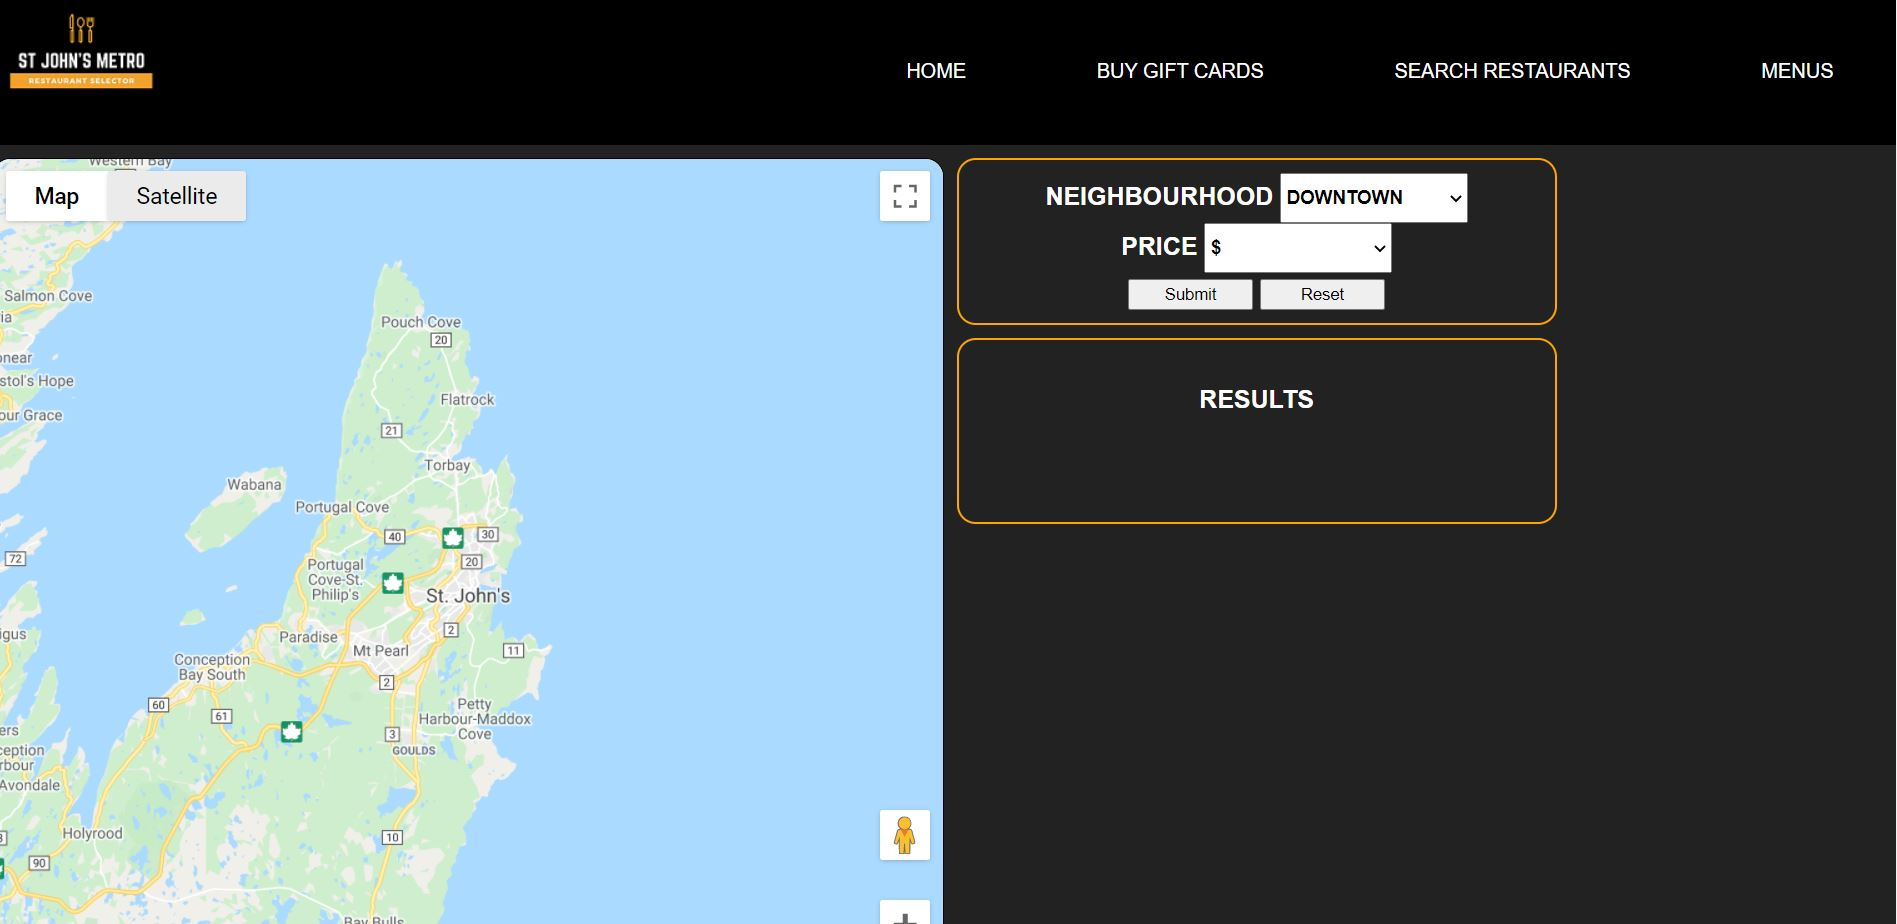
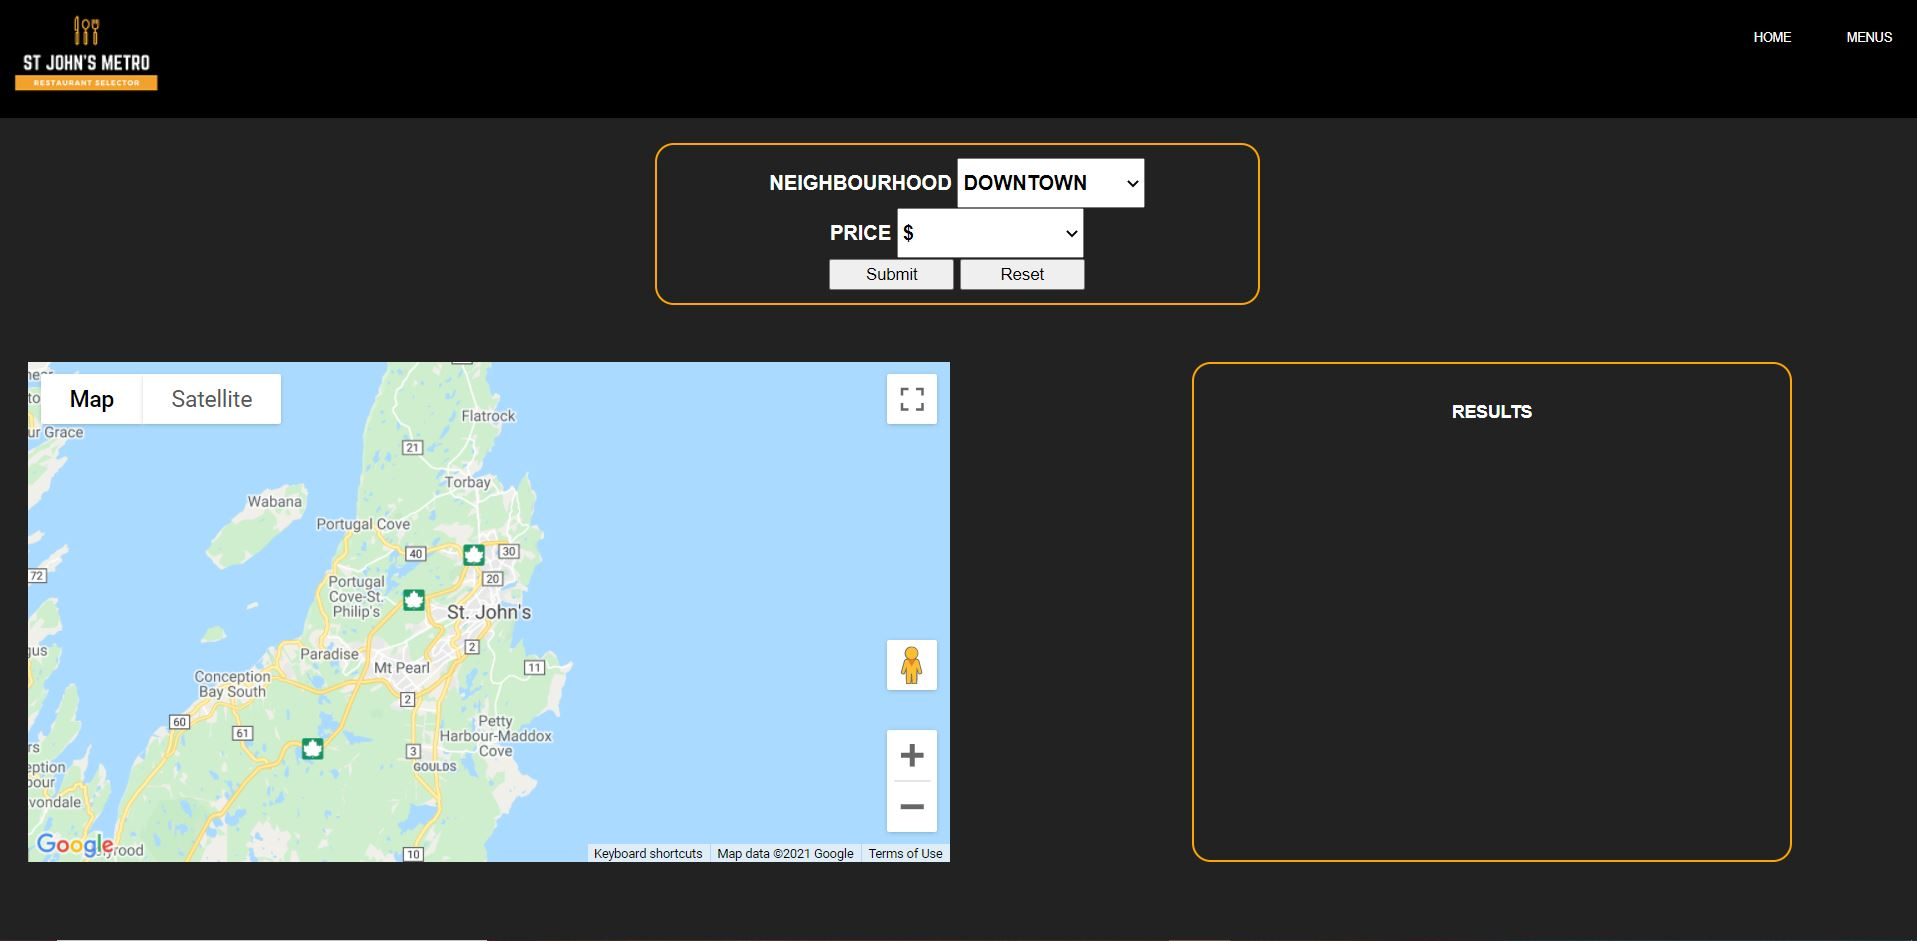
Formatting

diff --git a/style.css b/style.css
@@ -172,7 +172,6 @@ p {
   .container {
     display: grid;
     grid-template-columns: repeat(3, 1fr);
-    grid-auto-rows: minmax(100px, auto);
     text-align: center;
   }
   .profile {
@@ -180,8 +179,19 @@ p {
   }
 }
 
-@media only screen and (min-width: 1000px) {
+@media only screen and (min-width: 1275px) {
   .profile {
-    margin: 10px;
+    margin: 40px;
+  }
+  #map {
+    height: 100%
+    width: 50%;
+    margin: 25px;
+  }
+
+  #sidebar {
+    width: 50%;
+    margin: 25px;
+    margin-right: 100px;
   }
 }

diff --git a/index.html b/index.html
@@ -54,7 +54,7 @@
       <div id="map"></div>
     </div>
     <script
-      src="https://maps.googleapis.com/maps/api/js?key=key&callback=initMap&libraries=places&v=weekly"
+      src="https://maps.googleapis.com/maps/api/js?key=AIzaSyDpBAI8ShHvsFnr018C3dvv3VJK1UIi3y8&callback=initMap&libraries=places&v=weekly"
       async
     ></script>
   </body>
